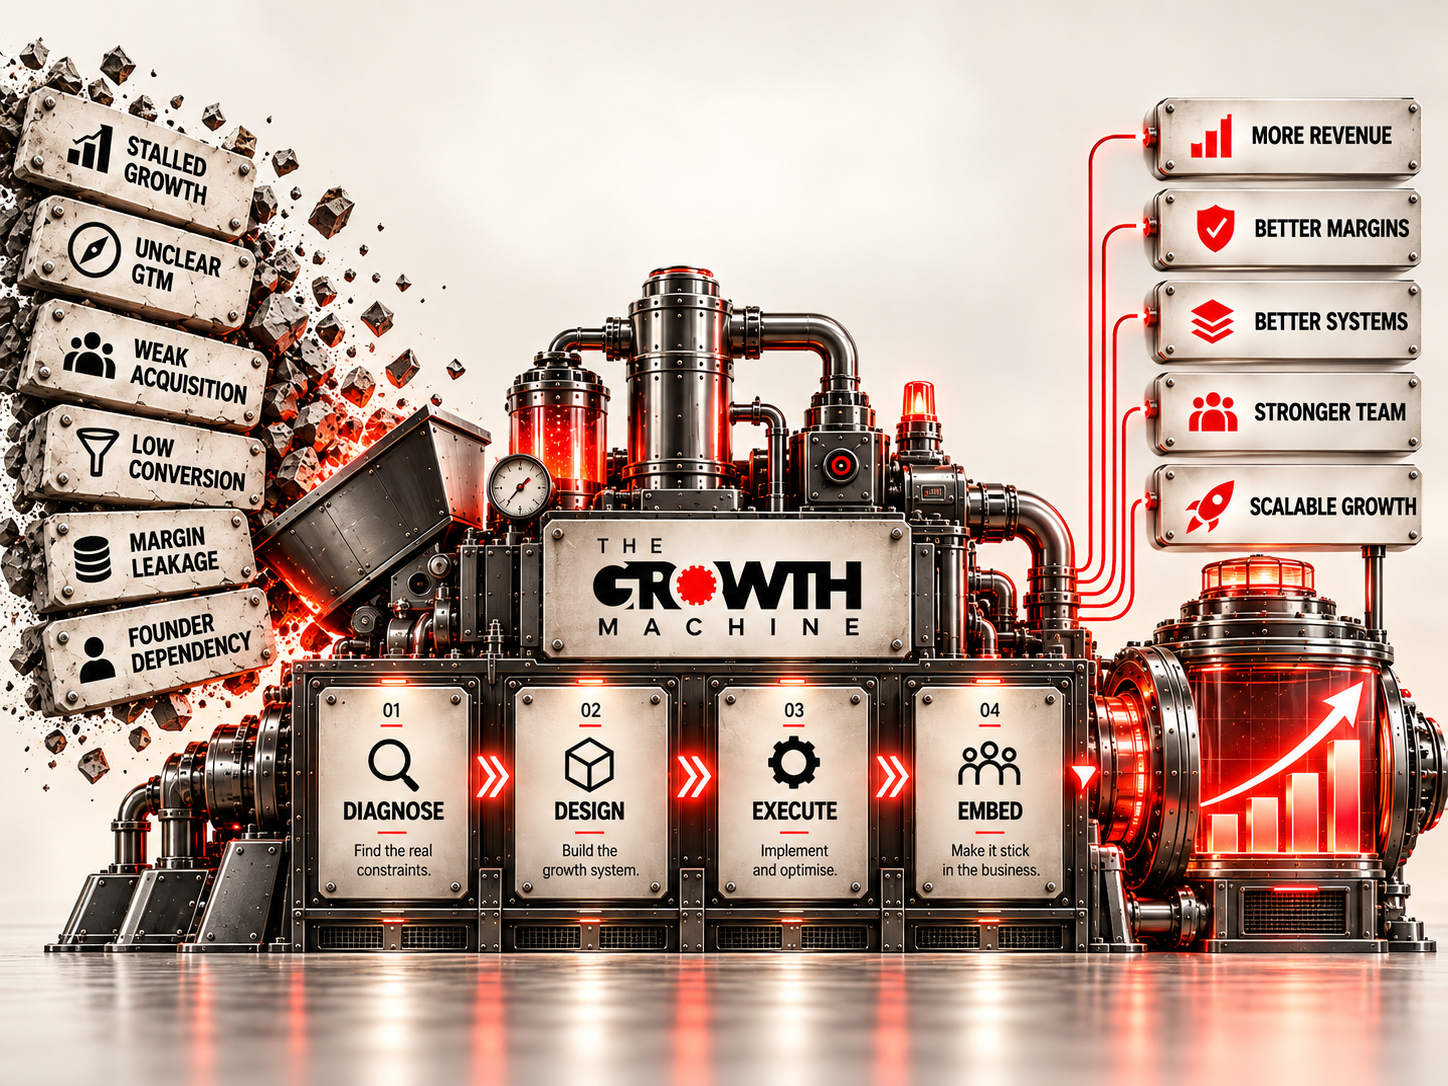
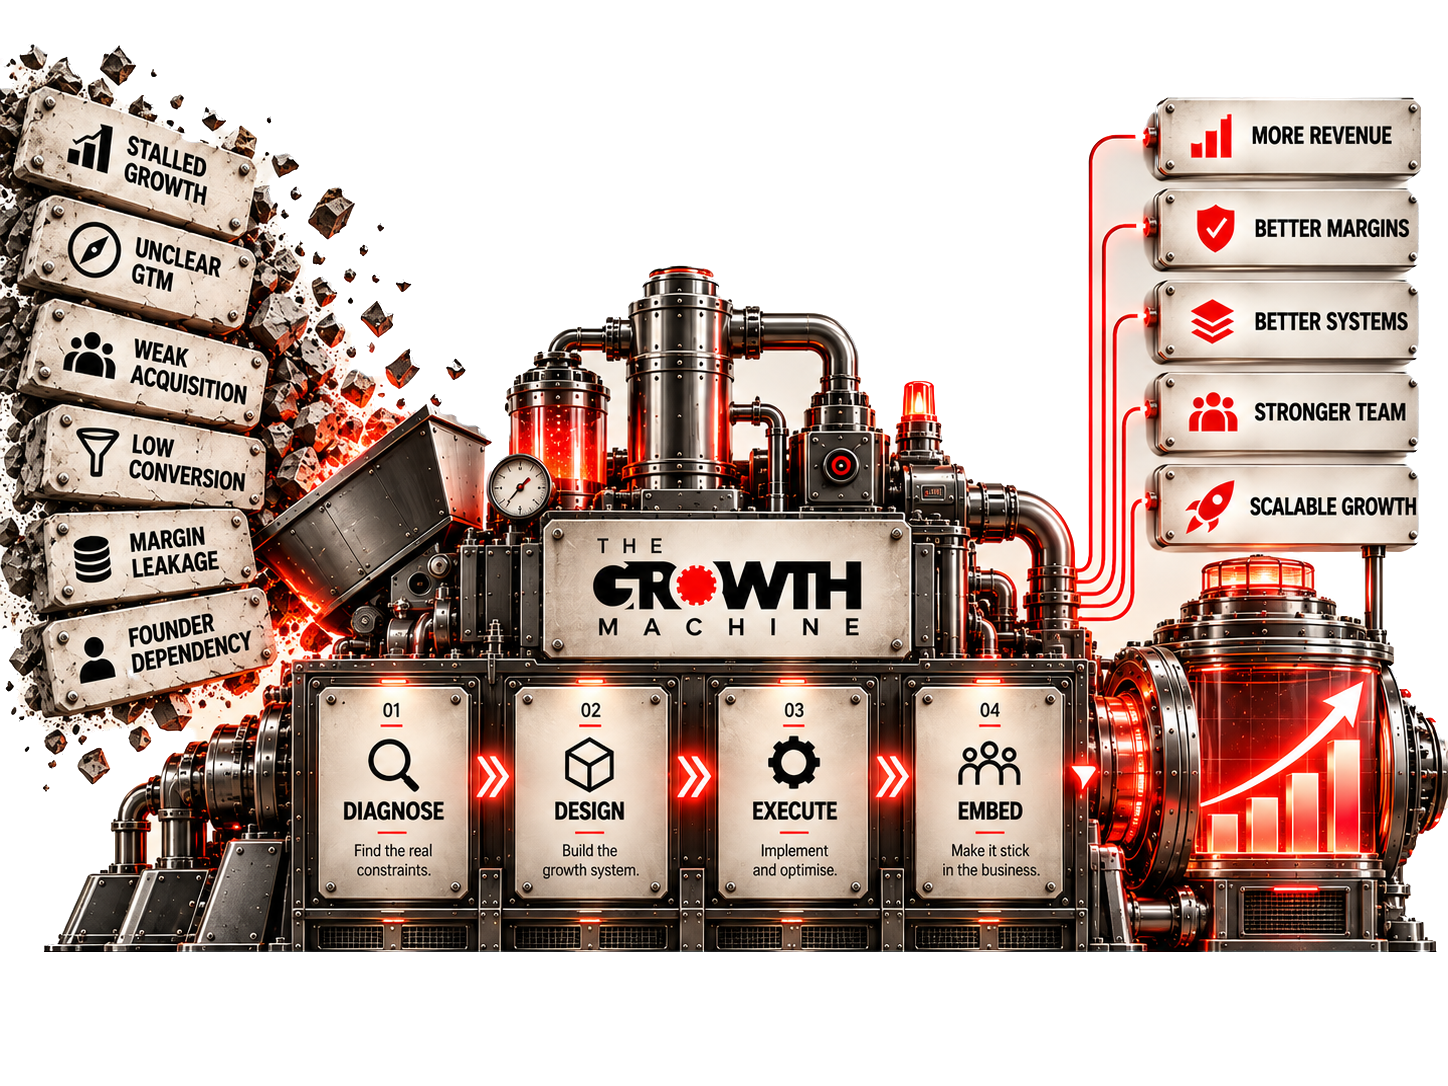
Cut the machine out of its backdrop so it sits on the page
The render now has a transparent background: the machine and its rubble
stand on the page with a soft contact shadow, not inside a picture box.
Andrew's originals move to brand/machine/; the cut-outs are made by
brand/tools/cutout-machine.py.

The spotlight no longer dims a rectangle. The machine fades back and a
second, clipped copy brings the active part forward at full strength under
a torch outline.

How we work becomes cream, continuing the problem section: the render was
lit for a light room and its few trapped backdrop specks vanish on cream.
Ways to work, Who you get and the closing call to action swap tone so the
rest of the page still alternates.

Claude-Session: https://claude.ai/code/session_01RD994P3JhY2dxs5GjAWo8M

Changed region(s): [[0.0622, 0.0, 1.0, 0.6989], [0.0, 0.5773, 1.0, 1.0], [0.0, 0.0304, 0.0311, 0.0608]]

diff --git a/brand/tools/cutout-machine.py b/brand/tools/cutout-machine.py
@@ -1,0 +1,115 @@
+import cv2, numpy as np, sys
+cfg = {'desktop': 952, 'mobile': 1588}
+POCKET_DIFF, POCKET_STD = 6, 6
+# Two plates at the very top touch the backdrop along their whole light edge, so
+# the edge-reachability test cannot separate them. Their outlines, inset a few
+# pixels, are declared solid by hand.
+SOLID = {
+    'desktop': [[(1166, 99), (1411, 99), (1419, 107), (1419, 168), (1411, 176), (1166, 176), (1158, 168), (1158, 107)]],
+    'mobile': [[(188, 78), (438, 139), (446, 179), (434, 195), (191, 181), (171, 126)]],
+}
+for name, floor_y in cfg.items():
+    img = cv2.imread(f'brand/machine/machine-{name}-original.png', cv2.IMREAD_COLOR)
+    H, W = img.shape[:2]
+    hsv = cv2.cvtColor(img, cv2.COLOR_BGR2HSV)
+    s, v = hsv[..., 1].astype(int), hsv[..., 2].astype(int)
+    b, g, r = [img[..., i].astype(int) for i in range(3)]
+    lum = (0.299 * r + 0.587 * g + 0.114 * b)
+
+    # backdrop candidates: light and close to neutral
+    cand = ((v > 140) & (s < 60)).astype(np.uint8)
+    cand = cv2.morphologyEx(cand, cv2.MORPH_OPEN, np.ones((3, 3), np.uint8))
+    er = cv2.erode(cand, np.ones((5, 5), np.uint8))
+    n, lab = cv2.connectedComponents(er, connectivity=4)
+    border = set(np.unique(np.concatenate([lab[0], lab[-1], lab[:, 0], lab[:, -1]]))) - {0}
+    backdrop = np.isin(lab, list(border)).astype(np.uint8)
+    backdrop = cv2.dilate(backdrop, np.ones((3, 3), np.uint8)) & cand
+
+    mask = np.full((H, W), cv2.GC_PR_BGD, np.uint8)
+    mask[(cand == 0)] = cv2.GC_PR_FGD
+    mask[backdrop == 1] = cv2.GC_BGD
+    sure_fg = ((lum < 70) | ((r > 190) & (g < 100) & (b < 100)))
+    sure_fg = cv2.erode(sure_fg.astype(np.uint8), np.ones((3, 3), np.uint8)).astype(bool)
+    mask[sure_fg & (backdrop == 0)] = cv2.GC_FGD
+    mask[floor_y:, :] = cv2.GC_BGD
+
+    bgd = np.zeros((1, 65), np.float64); fgd = np.zeros((1, 65), np.float64)
+    cv2.grabCut(img, mask, None, bgd, fgd, 5, cv2.GC_INIT_WITH_MASK)
+    fg = ((mask == cv2.GC_FGD) | (mask == cv2.GC_PR_FGD)).astype(np.uint8)
+    fg[floor_y:, :] = 0
+
+    # Background is only the backdrop that reaches the image edge. Light parts of
+    # the machine (panels, slabs, plates) are enclosed by its dark frames, so they
+    # are not background however light they are. Erode first so a thin light rim
+    # cannot bridge a plate to the backdrop, then grow back within the original.
+    bg = (1 - fg).astype(np.uint8)
+    # Outlines act as walls: a plate's rim is an edge even where both sides are light.
+    gray = cv2.GaussianBlur(cv2.cvtColor(img, cv2.COLOR_BGR2GRAY), (0, 0), 1.2)
+    walls = cv2.dilate(cv2.Canny(gray, 35, 100), np.ones((3, 3), np.uint8), iterations=2)
+    k = 5
+    bge = cv2.erode(bg & (1 - (walls > 0)).astype(np.uint8), np.ones((k, k), np.uint8))
+    n, lab = cv2.connectedComponents(bge, connectivity=8)
+    edge = set(np.unique(np.concatenate([lab[0], lab[-1], lab[:, 0], lab[:, -1]]))) - {0}
+    reach = np.isin(lab, list(edge)).astype(np.uint8)
+    # grow back geodesically inside the original background
+    for _ in range(k + 4):
+        reach = cv2.dilate(reach, np.ones((3, 3), np.uint8)) & bg
+    fg = (1 - reach).astype(np.uint8)
+
+    # Pockets: GrabCut background that does not reach the edge. Some are plates
+    # (keep), some are backdrop trapped between rubble or cables (make clear).
+    # Judge each pocket against the backdrop expected at that spot.
+    Wq, Hq = W // 4, H // 4
+    known = cv2.resize(reach * 255, (Wq, Hq), interpolation=cv2.INTER_NEAREST)
+    est = cv2.inpaint(cv2.resize(img, (Wq, Hq), interpolation=cv2.INTER_AREA), 255 - known, 8, cv2.INPAINT_TELEA)
+    est = cv2.resize(cv2.GaussianBlur(est, (0, 0), 2), (W, H), interpolation=cv2.INTER_LINEAR).astype(np.float32)
+    diff = np.abs(img.astype(np.float32) - est).mean(2)
+    pockets = (bg & (1 - reach) & (1 - (walls > 0))).astype(np.uint8)
+    for poly in SOLID[name]:
+        cv2.fillPoly(pockets, [np.array(poly, np.int32)], 0)
+    n, lab, stats, cents = cv2.connectedComponentsWithStats(pockets, connectivity=8)
+    lumf = cv2.cvtColor(img, cv2.COLOR_BGR2GRAY).astype(np.float32)
+    clear = np.zeros((H, W), bool)
+    report = []
+    for i in range(1, n):
+        m = lab == i
+        area = int(stats[i, cv2.CC_STAT_AREA])
+        md, sd = float(diff[m].mean()), float(lumf[m].std())
+        is_backdrop = md < POCKET_DIFF and sd < POCKET_STD
+        if is_backdrop:
+            clear |= m
+        if area > 100000000:
+            report.append((area, round(md, 1), round(sd, 1), tuple(int(c) for c in cents[i]), is_backdrop))
+    for r in sorted(report, reverse=True)[:40]:
+        print('  pocket', r)
+    near = cv2.dilate(clear.astype(np.uint8), np.ones((7, 7), np.uint8)).astype(bool)
+    clear |= near & (bg > 0) & (diff < POCKET_DIFF + 6)
+    fg[clear] = 0
+    for poly in SOLID[name]:
+        cv2.fillPoly(fg, [np.array(poly, np.int32)], 1)
+    fg[floor_y:, :] = 0
+
+    # drop specks too small to be rubble
+    n, lab, stats, _ = cv2.connectedComponentsWithStats(fg, connectivity=8)
+    keep = np.zeros(n, bool); keep[1:] = stats[1:, cv2.CC_STAT_AREA] >= 14
+    fg = keep[lab].astype(np.uint8)
+
+    # soft edges guided by the image
+    a = cv2.ximgproc.guidedFilter(img, (fg * 255).astype(np.uint8), 2, 1e-2 * 255 * 255).astype(np.float32) / 255
+    a = np.clip((a - 0.12) / 0.76, 0, 1)
+    a[floor_y:, :] = 0
+
+    # remove the light backdrop bleeding into edge pixels: estimate the backdrop behind them
+    small = cv2.resize(img, (W // 4, H // 4), interpolation=cv2.INTER_AREA)
+    hole = cv2.resize(((a > 0.02) * 255).astype(np.uint8), (W // 4, H // 4), interpolation=cv2.INTER_NEAREST)
+    hole = cv2.dilate(hole, np.ones((5, 5), np.uint8))
+    bgest = cv2.inpaint(small, hole, 6, cv2.INPAINT_TELEA)
+    bgest = cv2.resize(cv2.GaussianBlur(bgest, (0, 0), 3), (W, H), interpolation=cv2.INTER_LINEAR).astype(np.float32)
+    A = a[..., None]
+    F = (img.astype(np.float32) - (1 - A) * bgest) / np.maximum(A, 0.05)
+    F = np.where(A > 0.98, img.astype(np.float32), F)
+    F = np.clip(F, 0, 255)
+
+    out = np.dstack([F.astype(np.uint8), (a * 255).astype(np.uint8)])
+    cv2.imwrite(f'src/assets/machine/machine-{name}.png', out)
+    print(name, 'foreground share', round(float(a.mean()), 3))

diff --git a/CLAUDE.md b/CLAUDE.md
@@ -101,8 +101,16 @@ logo itself.
     machine runs.
   - Text baked into the render is too small to read on a phone, so every step
     is also live text beside or beneath it. The image has full alt text.
-  - The spotlight moves on scroll; the render itself never moves. Reduced
-    motion, or no JavaScript: no pinning, no spotlight, every step listed.
+  - It is cut out of its studio backdrop (`brand/tools/cutout-machine.py`,
+    originals in `brand/machine/`) so the machine and its rubble sit on the
+    page rather than in a picture box. The render was lit for a light room
+    and its few trapped specks of backdrop vanish on cream, so How we work is
+    a cream section that continues the problem section, separated by a
+    hairline. That is the one break in the ink/cream alternation.
+  - As the reader scrolls, the machine fades back and one part at a time
+    comes forward at full strength with a torch outline; the render itself
+    never moves. Reduced motion, or no JavaScript: no pinning, no fading,
+    every step listed.
 - **The logo below 200px wide** loses its hairline THE and MACHINE. 200px is
   the default; the phone header goes to 156px, and 136px under 400px.
   `public/favicon.svg` is a simplified 8-tooth gear, because the full gear

diff --git a/brand/README.md b/brand/README.md
@@ -23,9 +23,16 @@ rotated independently. Rotate it around (622.6, 364.5) in the SVG's coordinates.
 
 ## The machine render
 
-`src/assets/machine/machine-desktop.png` (1448×1086) and `machine-mobile.png`
-(941×1672) are the raster layers extracted from Andrew's
-`growth-machine-desktop.svg` and `growth-machine-mobile.svg`. The rest of those
+`brand/machine/machine-desktop-original.png` (1448×1086) and
+`machine-mobile-original.png` (941×1672) are the raster layers extracted from
+Andrew's `growth-machine-desktop.svg` and `growth-machine-mobile.svg`.
+
+`src/assets/machine/` holds the transparent cut-outs the site uses, made by
+`tools/cutout-machine.py` (run from the repo root; needs `opencv-contrib-python`
+and `numpy`). It takes the backdrop that reaches the image edge as background,
+treats drawn outlines as walls so light plates stay solid, cuts everything
+below the floor line, and removes the grey fringe from soft edges. Two plates
+at the very top are declared solid by hand in that script. The rest of those
 files (glow overlays, a spinning cog) was not used: `MachineRun` replaces it
 with an aligned spotlight, a vector nameplate carrying the real logo, and live
 text. To change the render, replace the PNG; the build regenerates the web
